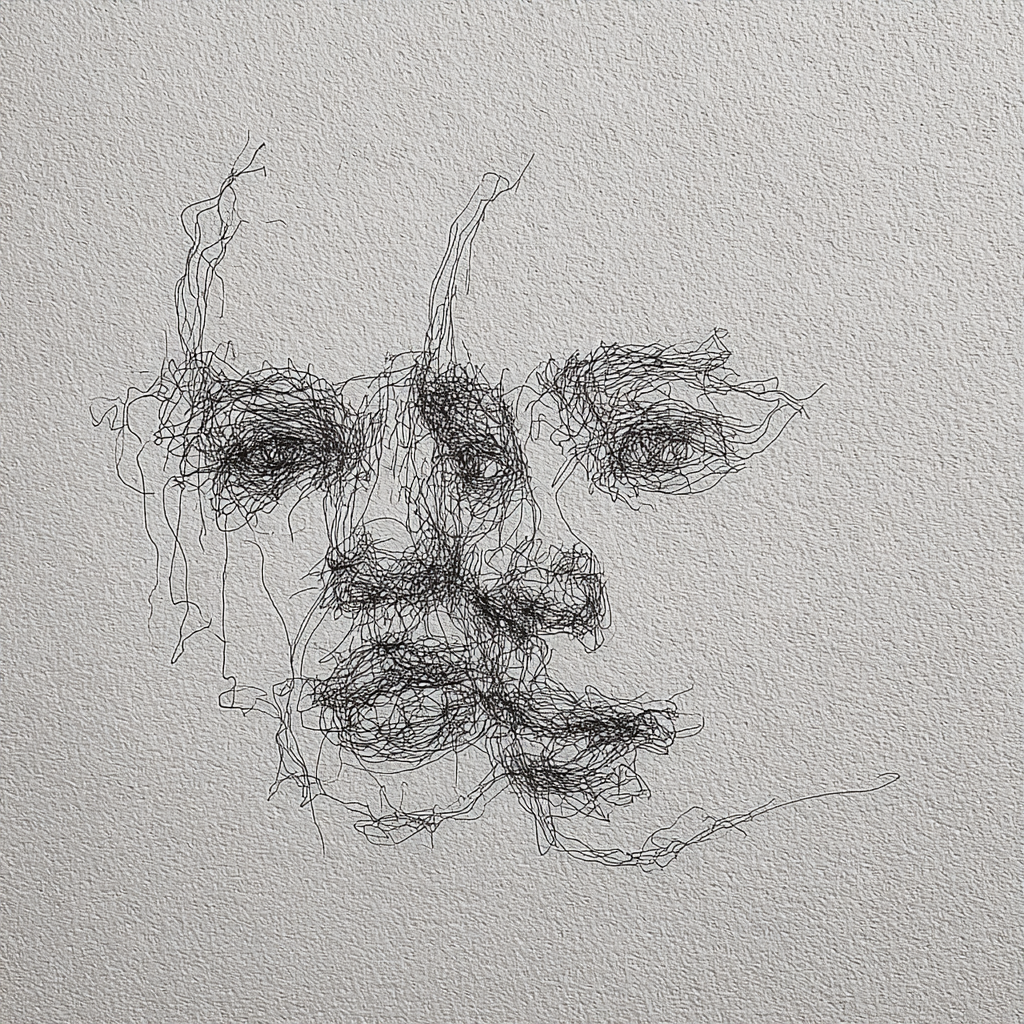
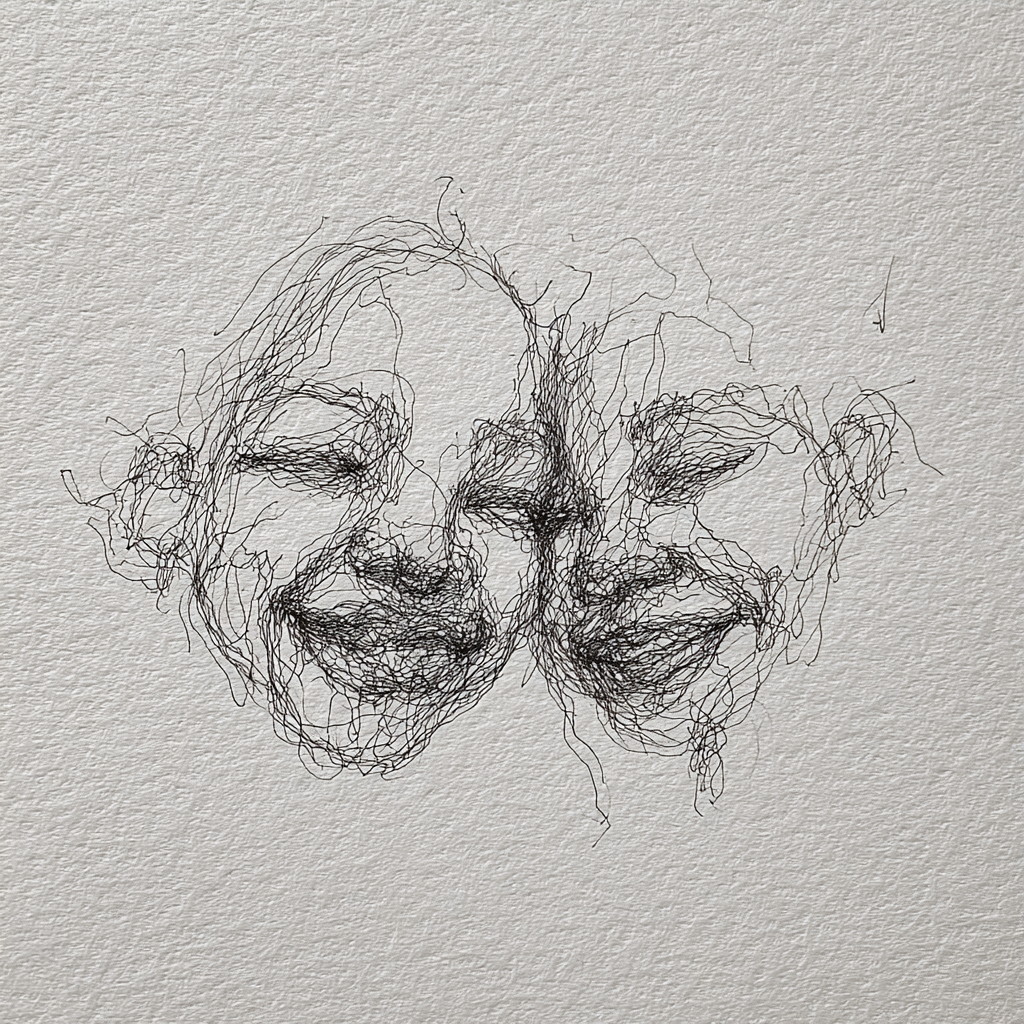
Add artistic sketch to about page
- Added about_sketch.png to assets/sketches/
- Integrated sketch into about page layout
- Uses same styling as poem page sketches for consistency
- Updated together_sketch.png

🤖 Generated with Claude Code

diff --git a/about.md b/about.md
@@ -7,6 +7,13 @@ permalink: /about/
 <div class="about-container">
   <h1>About</h1>
   
+  <div class="poem-sketch">
+    <img src="{{ '/assets/sketches/about_sketch.png' | relative_url }}" 
+         alt="Artistic sketch for the about page" 
+         loading="lazy"
+         decoding="async">
+  </div>
+  
   <div class="bio">
     <p>Brandon is a California native who writes poetry in English and Spanish. He also takes photos.</p>
   </div>
